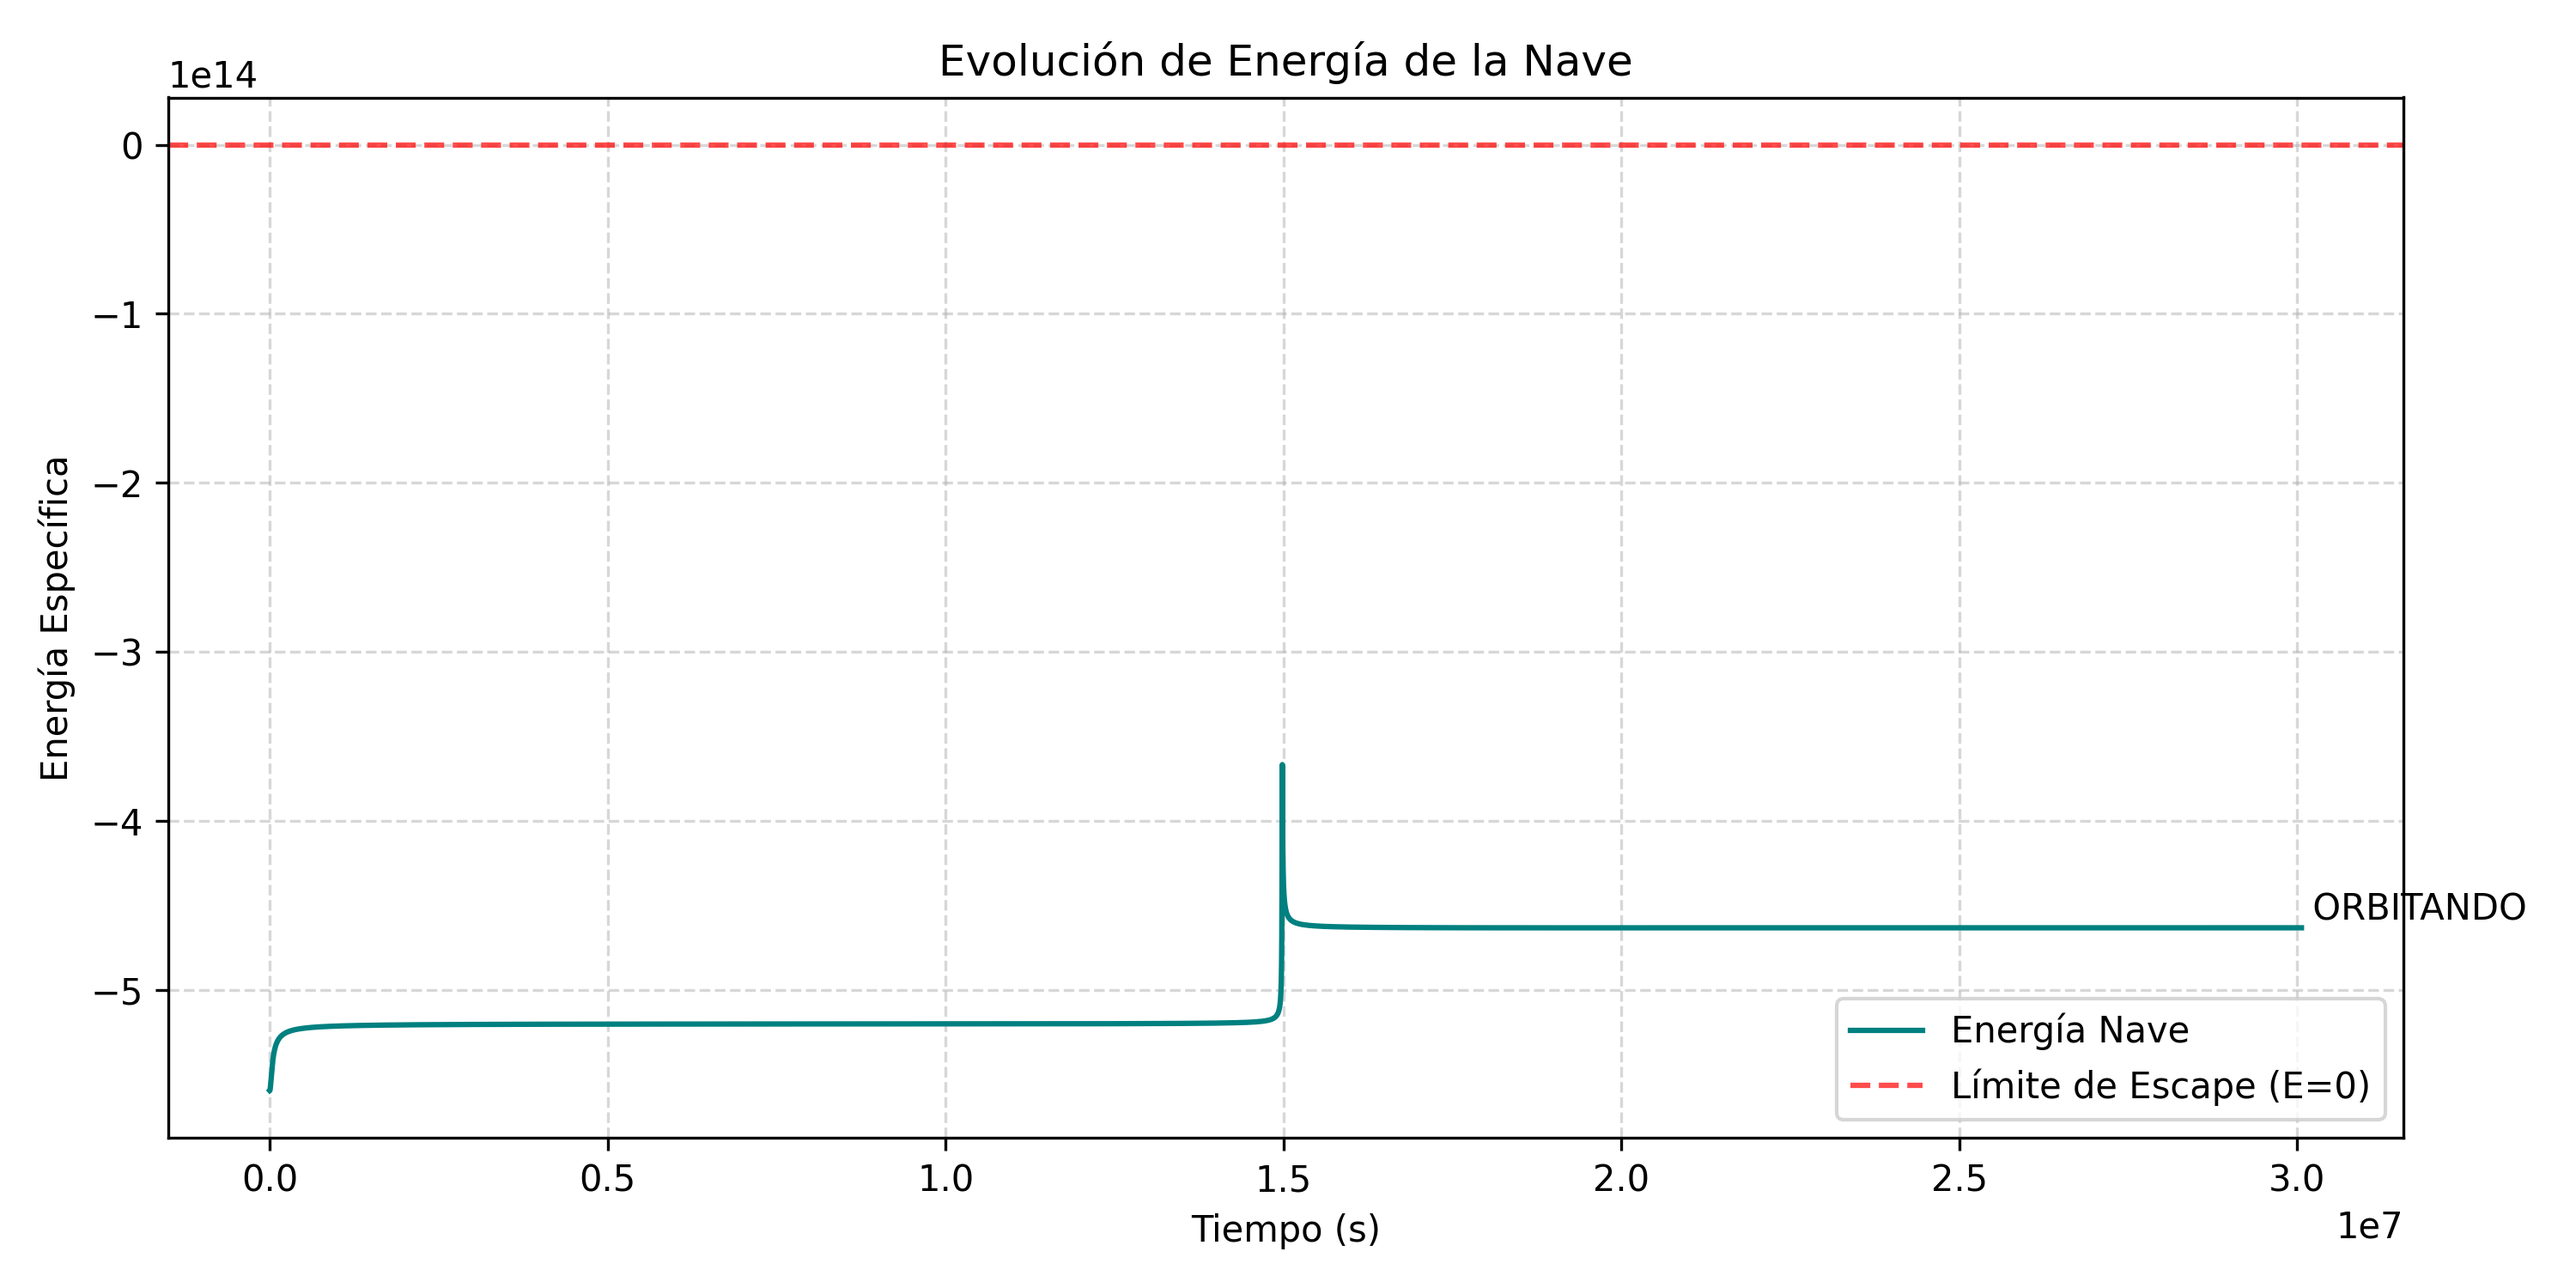
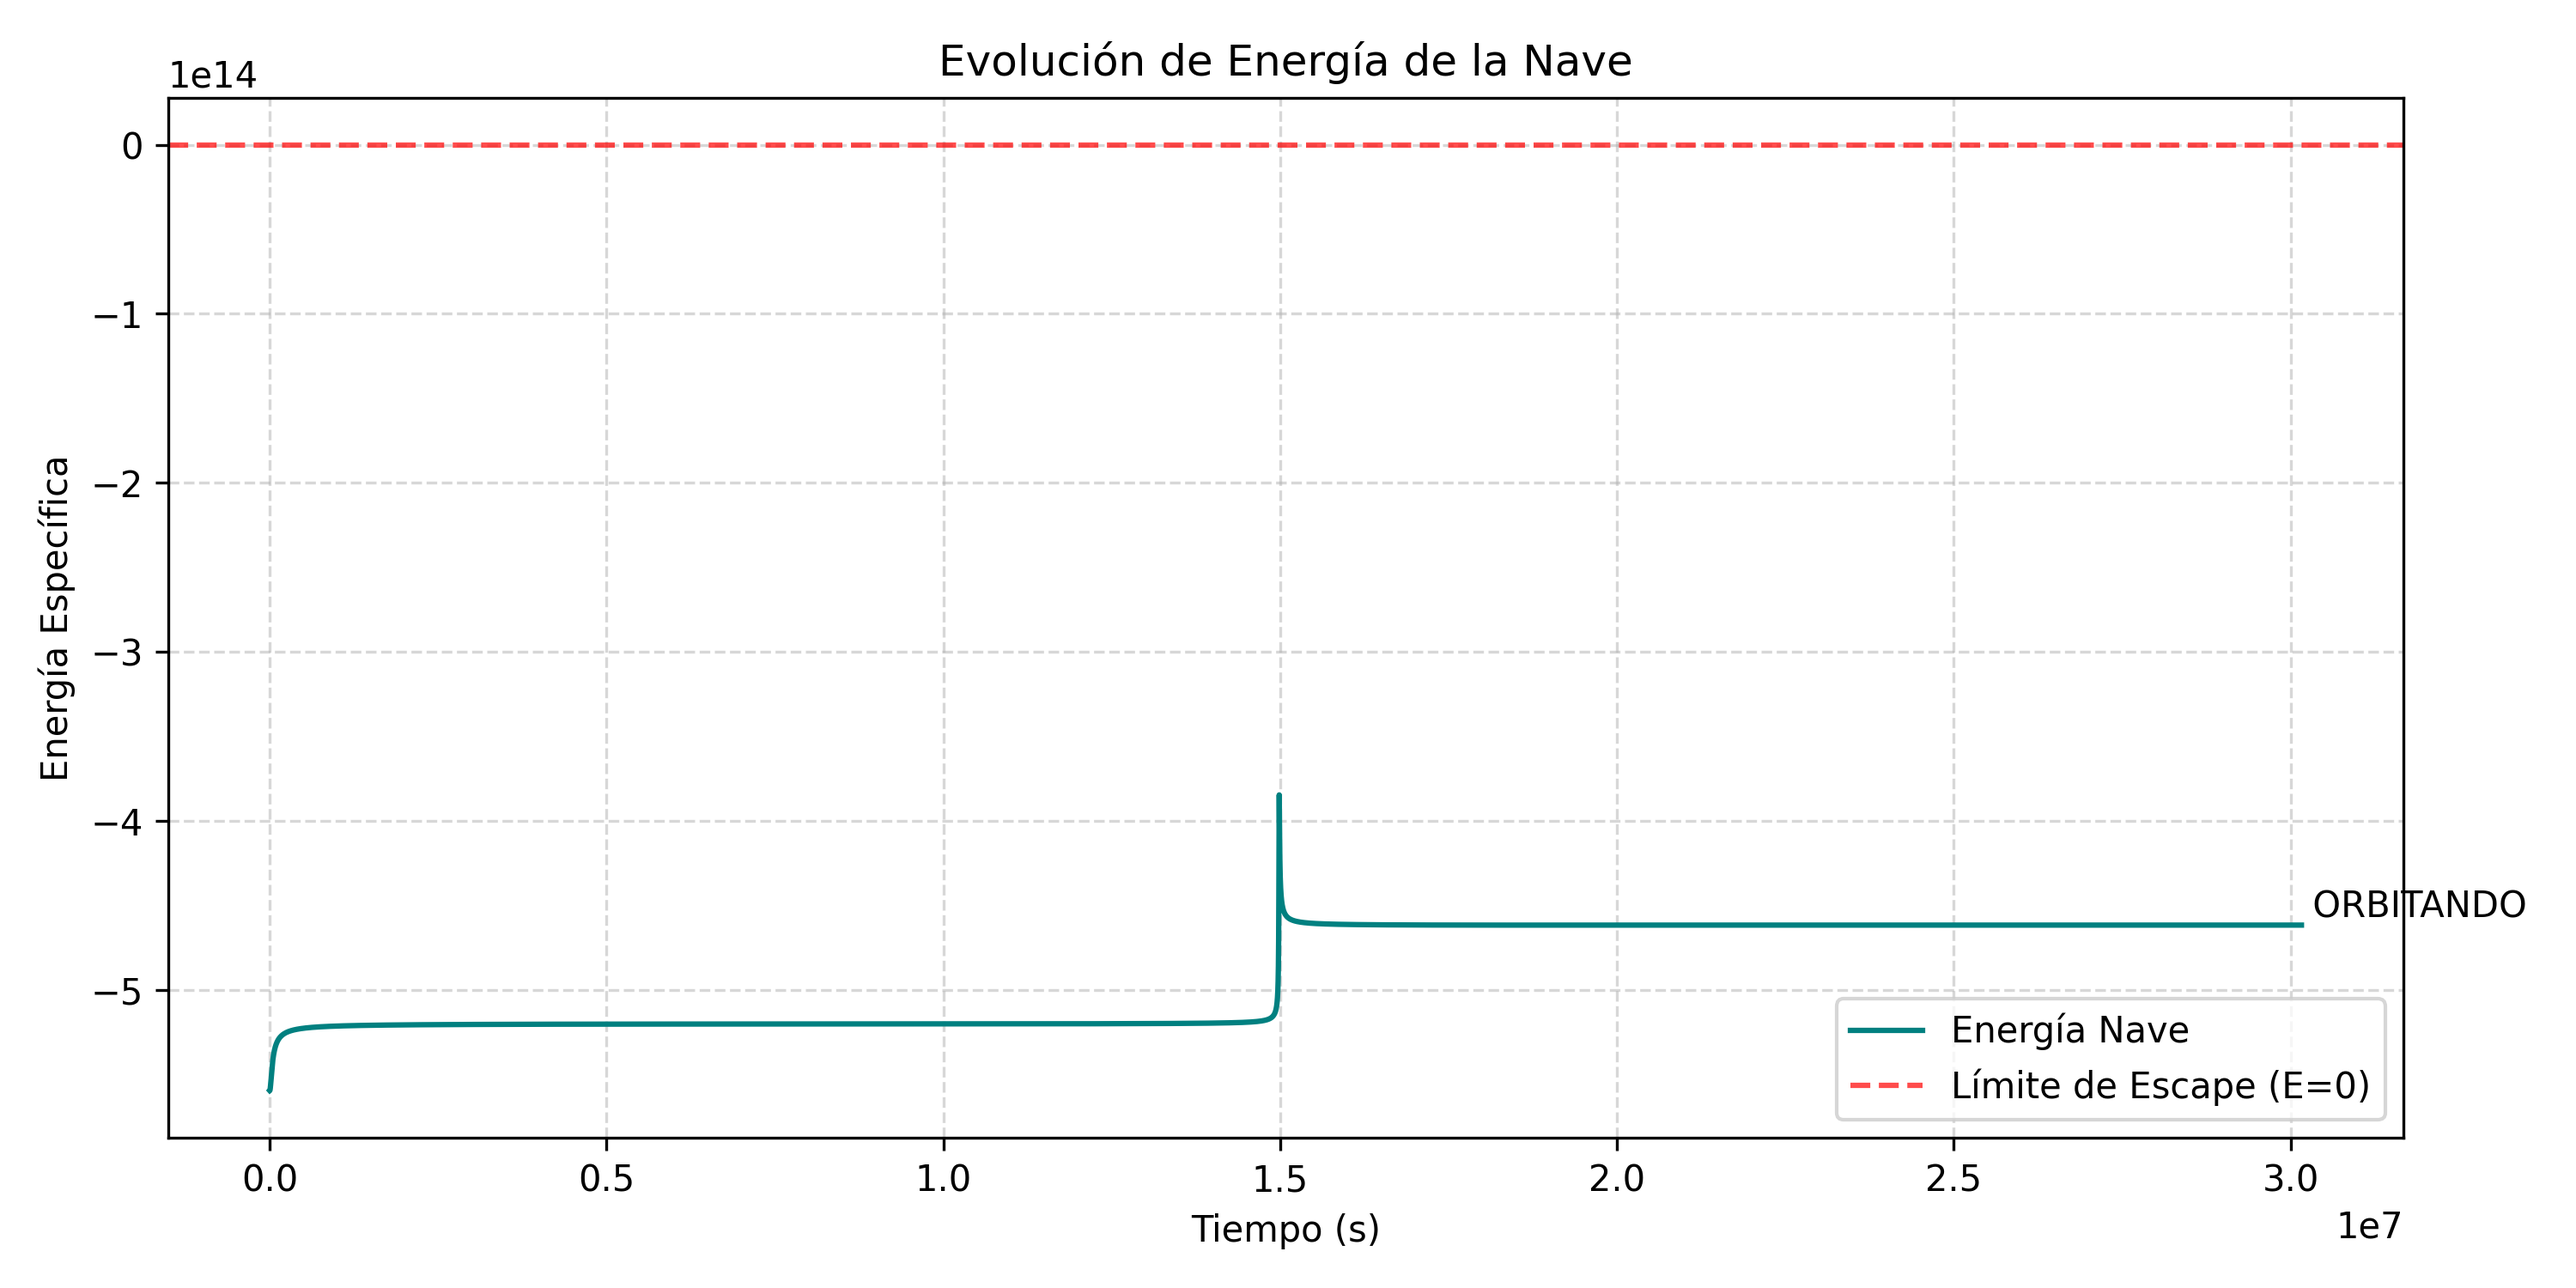
phase scan simulation

diff --git a/src/engine.py b/src/engine.py
@@ -5,15 +5,52 @@ import integrator as ing
 dtFact = 1e-6
 tSim = 3e7
 
-_,_,_,hist = ing.optimizationStepSlingshot(5.33275,-4000,tSim,dtFact,True)
+_,_,_,_,hist = ing.optimizationStepSlingshot(5.3328,-4000,tSim,dtFact,True)
 ing.graficarTrayectorias(hist)
 
+# barrido fases
 
-minF, maxF = 5.3326, 5.333
-minDv, maxDv = -4000.0,-4000.01
+# minF, maxF = 5.33235, 5.33245
+# fases = np.linspace(minF,maxF,10)
+# maximH = []
+# for fase in fases:
+#     maximH.append(ing.optimizationStepSlingshot(fase,-4000,tSim,dtFact,True)[2])
+# maximH = np.array(maximH)
+# plt.plot(fases,maximH)
+# plt.show()
 
-# fases, deltaV, varH = ing.graficarSuperficieOptimizacion(minF,maxF,minDv,maxDv,10,5,dtFact,tSim,False)
-# print([i for i in zip(fases, deltaV, varH)])
 
 
-# historia = ing.optimizationStepSlingshot(0,3e5,2e7,1e-2,True)
+
+# minDv, maxDv = -4000.0,-4000.01
+
+# X, Y, Z = ing.graficarSuperficieOptimizacion(minF,maxF,minDv,maxDv,10,5,dtFact,tSim,False)
+# idx_flat = np.nanargmax(Z) 
+# i_max, j_max = np.unravel_index(idx_flat, Z.shape)
+
+# print(f"Máximo encontrado en índices: [{i_max}, {j_max}]")
+# print(f"Valor Máximo de Energía: {Z[i_max, j_max]:.2e} J/kg")
+
+
+# radio_idx = 2  
+
+# i_start = max(0, i_max - radio_idx)
+# i_end   = min(X.shape[0], i_max + radio_idx + 1)
+
+# j_start = max(0, j_max - radio_idx)
+# j_end   = min(X.shape[1], j_max + radio_idx + 1)
+
+# X_zoom = X[i_start:i_end, j_start:j_end]
+# Y_zoom = Y[i_start:i_end, j_start:j_end]
+# Z_zoom = Z[i_start:i_end, j_start:j_end]
+
+# nuevo_min_fase = X_zoom.min()
+# nuevo_max_fase = X_zoom.max()
+# nuevo_min_dv   = Y_zoom.min()
+# nuevo_max_dv   = Y_zoom.max()
+
+# print("-" * 30)
+# print("NUEVOS LÍMITES PARA REFINAR LA BÚSQUEDA:")
+# print(f"Fase:    [{nuevo_min_fase:.4f}, {nuevo_max_fase:.4f}]")
+# print(f"Delta V: [{nuevo_min_dv:.1f}, {nuevo_max_dv:.1f}]")
+

diff --git a/src/integrator.py b/src/integrator.py
@@ -247,7 +247,7 @@ def optimizationStepSlingshot(faseVenus,deltaVelNave,tiempoSim,dtFactor,debug=Fa
     velocidadesIniciales = np.array(velocidadesIniciales)
     resultados = calculoOrbitas(posicionesIniciales,velocidadesIniciales,masas,tiempoSim,dtFactor,G,debug)
     varHNave = resultados[-1,2] - resultados[0,2]
-    return varHNave, faseVenus, deltaVelNave, resultados
+    return varHNave, faseVenus, max(resultados[:,2]), deltaVelNave, resultados
 
 def graficarSuperficieOptimizacion(min_fase,max_fase,min_dv,max_dv,resFase,resDV,dtFactor,tiempoSim,debug=False, assets="assets/"):
     print("Iniciando cálculo de superficie...")
@@ -275,7 +275,7 @@ def graficarSuperficieOptimizacion(min_fase,max_fase,min_dv,max_dv,resFase,resDV
             contador += 1
             tantoporuno = int(total_puntos/100) if total_puntos>100 else 1
             if contador%tantoporuno==0:
-                print(f"\rCalculando: {contador:4}/{total_puntos} ({(contador/total_puntos)*100:.1f}%)")
+                print(f"\rCalculando: {contador:4}/{total_puntos} ({(contador/total_puntos)*100:.1f}%)", end='')
             
     print("\nCálculo terminado. Generando gráfica...")
 
